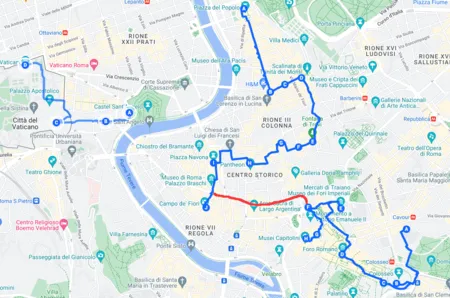
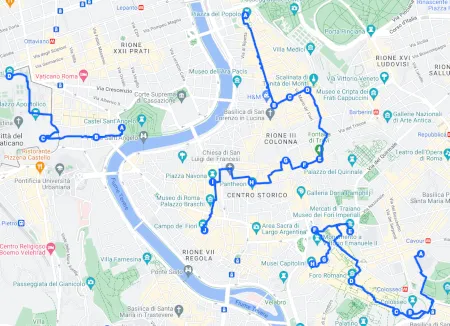
Add article 3 days in Rome

diff --git a/_posts/2024-12-08-cosa-vedere-roma-3-giorni.md b/_posts/2024-12-08-cosa-vedere-roma-3-giorni.md
@@ -1,0 +1,119 @@
+---
+layout: single
+title:  "Cose da Vedere a Roma in 3 Giorni"
+date:   2024-12-22
+permalink: /cosa-vedere-rome-3-giorni/
+categories: Week-End
+classes: wide
+author_profile: false
+excerpt: "Vivi Roma in 3 giorni: lasciati incantare dai simboli intramontabili come il Pantheon e i Musei Vaticani, ma scopri anche il fascino nascosto del Ghetto Ebraico e dell’Aventino, per un’esperienza tra meraviglie celebri e tesori meno noti."
+
+---
+
+{: .text-justify}
+Roma, con la sua storia millenaria e il suo patrimonio artistico senza pari, offre innumerevoli attrazioni. Anche con solo tre giorni a disposizione, è possibile scoprire molti dei luoghi più emblematici della città, bilanciando itinerari classici e percorsi alternativi per esplorare al meglio la capitale.
+
+## Gli itinerari di Scopri Roma: Classici e Alternativi
+
+{: .text-justify}
+Gli itinerari che ti propongo sono suddivisi in due categorie: **classici**, pensati per chi visita Roma per la prima volta e vuole ammirare le attrazioni più iconiche, e **alternativi**, ideali per chi ha già esplorato i luoghi principali o desidera scoprire angoli meno conosciuti della città. Con tre giorni a disposizione, puoi facilmente combinare entrambi gli approcci, alternando monumenti famosi a esperienze più particolari, per un viaggio davvero completo e vario.
+
+## Itinerari Classici
+
+![Itinerari Classici]({{ site.baseurl }}/assets/img/Itinerari-Classici.webp){: width="450px" height="298px"}
+
+{: .text-justify}
+Se è la tua prima volta a Roma o desideri ammirare i luoghi più iconici della capitale, gli itinerari classici sono la scelta perfetta. Ti condurranno attraverso monumenti famosi, piazze ricche di storia e scorci indimenticabili, offrendoti un’immersione completa nella bellezza e nel fascino senza tempo della città eterna.
+
+### 1. Roma Centro Storico
+
+![Scalinata Piazza di Spagna]({{ site.baseurl }}/assets/img/Scalinata-Piazza-di-Spagna.webp){: width="450px" height="270px"}
+
+{: .text-justify}
+Inizia il tuo percorso da **Piazza del Popolo**, una delle piazze più rappresentative della città, per poi passeggiare lungo la vivace **via del Corso** fino a raggiungere **via Condotti** e la suggestiva **Piazza di Spagna**. Prosegui ammirando la magnifica **Fontana di Trevi**, **Piazza Colonna**, il maestoso **Pantheon**, **Piazza Navona**, e concludi con una visita a **Campo de' Fiori**. Questo itinerario è un viaggio emozionante attraverso il cuore pulsante della storia e dell’arte di Roma.
+
+{: .text-justify}
+Consigliato per chi vuole esplorare alcune delle meraviglie più celebri della città: **un percorso imperdibile per vivere l’autenticità e il fascino del centro storico di Roma**.
+
+{: .text-center}
+[Vai all'Itinerario](https://www.scopriroma.it/roma-centro-storico/){: .btn .btn--info}
+
+### 2. Colosseo e Foro Romano
+
+![Colosseo]({{ site.baseurl }}/assets/img/Colosseo.webp){: width="450px" height="auto"}
+
+{: .text-justify}
+Il tuo percorso comincia dalla chiesa di **San Pietro in Vincoli**, famosa per ospitare il **Mosè di Michelangelo**, e continua con il maestoso **Colosseo** e l’**Arco di Costantino**. Dopo aver esplorato l’area del **Foro Romano**, puoi proseguire verso i **Mercati di Traiano** e arrivare a **Piazza Venezia**, dominata dal maestoso **Altare della Patria**. Termina la giornata con una visita alla storica piazza del **Campidoglio**, progettata da Michelangelo.
+
+{: .text-justify}
+Questo itinerario è perfetto **se desideri vivere l’emozione di visitare il Colosseo** e scoprire i tesori archeologici che testimoniano la grandiosità della Roma antica.
+
+{: .text-center}
+[Vai all'Itinerario](https://www.scopriroma.it/roma-colosseo-foro-romano/){: .btn .btn--info}
+
+### 3. Vaticano e Basilica di San Pietro
+
+![Basilica di San Pietro]({{ site.baseurl }}/assets/img/Basilica-di-San-Pietro.webp){: width="450px" height="auto"}
+
+{: .text-justify}
+Inizia la tua visita con il suggestivo **Castel Sant’Angelo**, per poi percorrere **Via della Conciliazione**, che offre una vista mozzafiato su **Piazza San Pietro**. Entra nella spettacolare **Basilica di San Pietro**, un capolavoro di architettura e spiritualità, e continua con una visita ai meravigliosi **Musei Vaticani**, dove potrai ammirare la celebre **Cappella Sistina**. Un viaggio che ti porterà nel cuore della cultura e della fede della città eterna.
+
+{: .text-justify}
+Questo itinerario è ideale per **chi non può rinunciare a visitare la Basilica di San Pietro** e vuole scoprire i capolavori artistici che rendono unico il Vaticano.
+
+{: .text-center}
+[Vai all'Itinerario](https://www.scopriroma.it/vaticano-basilica-san-pietro/){: .btn .btn--info}
+
+## Itinerari Alternativi
+
+![Itinerari Alternativi]({{ site.baseurl }}/assets/img/Itinerari-Alternativi.webp){: width="450px" height="457px"}
+
+{: .text-justify}
+Se hai già visto i monumenti più famosi di Roma o vuoi scoprire un lato meno conosciuto della città, gli itinerari alternativi sono ciò che fa per te. Questi percorsi ti condurranno in angoli autentici e quartieri ricchi di storia, lontano dai circuiti turistici, offrendo esperienze uniche per vivere Roma in modo diverso.
+
+### 4. Ghetto Ebraico e Trastevere: un viaggio nei quartieri più autentici e caratteristici di Roma, dove l’atmosfera si mescola con la storia.
+
+![Santa Cecilia in Trastevere]({{ site.baseurl }}/assets/img/Santa-Cecilia-Trastevere.webp){: width="450px" height="auto"}
+
+{: .text-justify}
+Parti dal **Circo Massimo** e raggiungi la celebre **Bocca della Verità**, per poi immergerti nell’atmosfera unica del **Ghetto Ebraico**, uno dei quartieri più ricchi di storia di Roma. Passeggia tra le stradine caratteristiche e visita la **Sinagoga** prima di raggiungere l’**Isola Tiberina**. Infine, esplora il pittoresco quartiere di **Trastevere**, noto per i suoi vicoli acciottolati, le piazze animate e il suo fascino senza tempo.
+
+{: .text-justify}
+Questo itinerario è perfetto per chi vuole scoprire **due dei quartieri più autentici e suggestivi di Roma**, lontano dalle solite mete turistiche.
+
+{: .text-center}
+[Vai all'Itinerario](https://www.scopriroma.it/trastevere-ghetto-ebraico/){: .btn .btn--info}
+
+### 5. Giro delle Basiliche: scopri le magnifiche basiliche romane, ciascuna con un’impronta storica e artistica unica.
+
+![Basilica di San Giovanni in Laterano]({{ site.baseurl }}/assets/img/Basilica-San-Giovanni.webp){: width="450px" height="auto"}
+
+{: .text-justify}
+Esplora alcune delle chiese più importanti e ricche di storia di Roma, iniziando dalla maestosa **Basilica di Santa Maria Maggiore**. Continua verso la **Basilica di San Giovanni in Laterano**, la più antica e imponente delle basiliche papali, e termina con la grandiosa **Basilica di San Paolo fuori le Mura**. Ogni tappa ti sorprenderà con la sua bellezza, i suoi tesori artistici e la sua profonda spiritualità.
+
+{: .text-justify}
+Questo itinerario è **ideale per chi vuole conoscere meglio le principali basiliche di Roma**, immergendosi in secoli di storia e arte religiosa.
+
+{: .text-center}
+[Vai all'Itinerario](https://www.scopriroma.it/giro-basiliche/){: .btn .btn--info}
+
+### 6. Villa Borghese e Bioparco: per una pausa immersa nel verde, tra arte, natura e fauna selvatica.
+
+![Villa Borghese - Tempio di Esculapio]({{ site.baseurl }}/assets/img/Villa-Borghese-Tempio-Esculapio.webp){: width="450px" height="auto"}
+
+{: .text-justify}
+Se cerchi un po’ di relax, questo itinerario ti porterà tra natura e arte. Passeggia tra i meravigliosi giardini di **Villa Borghese**, uno dei parchi più amati della città, e visita la prestigiosa **Galleria Borghese**, dove potrai ammirare opere di **Caravaggio** e **Bernini**. Termina la tua giornata con una visita al **Bioparco di Roma**, un luogo perfetto per scoprire numerose specie animali in un ambiente naturale.
+
+{: .text-justify}
+Questo percorso è perfetto per **chi vuole trascorrere una giornata lontano dal caos cittadino**, tra cultura e natura, in una delle oasi verdi più belle di Roma.
+
+{: .text-center}
+[Vai all'Itinerario](https://www.scopriroma.it/villa-borghese-bioparco/){: .btn .btn--info}
+
+## Conclusione
+
+{: .text-justify}
+Con tre giorni a disposizione, Roma ti offrirà un assaggio indimenticabile della sua storia, arte e cultura. Che tu scelga itinerari classici o alternativi, preparati a camminare, scoprire e lasciarti sorprendere dalla magia della città eterna. Pianifica bene il tuo viaggio, prendi il tuo tempo per ammirare ogni dettaglio e lasciati trasportare dall’atmosfera unica di Roma. Buona visita!
+
+{: .text-justify}
+Qualunque sia il tuo itinerario, che tu preferisca i percorsi classici, quelli alternativi o un mix di entrambi, Roma saprà regalarti emozioni uniche. Preparati a immergerti nella sua storia, a perderti tra le sue vie e a lasciarti affascinare dalla magia di una città che è un autentico museo a cielo aperto.

diff --git a/_posts/2024-12-08-cosa-vedere-roma-2-giorni.md b/_posts/2024-12-08-cosa-vedere-roma-2-giorni.md
@@ -6,7 +6,7 @@ permalink: /cosa-vedere-rome-2-giorni/
 categories: Week-End
 classes: wide
 author_profile: false
-excerpt: "Esplora Villa Borghese e il BioParco di Roma: passeggia tra giardini storici, ammira capolavori di Caravaggio e Tiziano, e scopri la fauna mondiale in un'avventura unica nel cuore della città."
+excerpt: "Scopri Roma in 2 giorni: ammira i grandi classici come il Colosseo e la Basilica di San Pietro, ma esplora anche lati inaspettati tra i vicoli di Trastevere e il quartiere Coppedè, per un viaggio tra storia, arte e autenticità."
 
 ---
 
@@ -23,12 +23,7 @@ Gli itinerari che ti propongo sono divisi in due categorie: **classici** e **alt
 ![Itinerari Classici]({{ site.baseurl }}/assets/img/Itinerari-Classici.webp){: width="450px" height="298px"}
 
 {: .text-justify}
-Se è la tua prima volta a Roma o desideri vedere i luoghi più iconici, gli itinerari classici ti guideranno attraverso i monumenti e le piazze più celebri della città.
-
-{: .text-justify}
-La figura mostra i 3 itinerari sulla cartina, notate la linea rossa che congiunge i primi due itinerari. Più avanti vedremo che
-per le persone più allenate sarà possibile congiungere i due itinerari così da poter condensare in 1 giorno due diversi itinerari così da poter
-percorrere, in soli due giorni, tutti gli itinerari classici.
+Se è la tua prima volta a Roma o desideri vedere i luoghi più iconici, gli itinerari classici ti guideranno attraverso i monumenti e le piazze più celebri della città. Dal Colosseo a Piazza Navona, passando per la Fontana di Trevi e il Pantheon, questi percorsi ti offriranno un viaggio nel cuore della storia e della bellezza romana.
 
 ### 1. Roma Centro Storico
 
@@ -115,21 +110,10 @@ Scegli questo itinerario se conosci già tutti gli itinerari classici, le basili
 {: .text-center}
 [Vai all'Itinerario](https://www.scopriroma.it/villa-borghese-bioparco/){: .btn .btn--info}
 
-## Per i Veri Camminatori: Combinare Itinerari Classici
-
-{: .text-justify}
-Se sei un appassionato camminatore e desideri vedere il massimo in due giorni, puoi combinare l’Itinerario del **Centro Storico** con quello del **Colosseo e Foro Romano**.
-
-{: .text-justify}
-Unendo i due itinerari, puoi iniziare dal Centro Storico, percorrendo il classico giro che tocca Piazza del Popolo, Fontana di Trevi e Campo de’ Fiori, per poi dirigerti verso Largo di Torre Argentina. Da lì, puoi intraprendere il secondo itinerario al contrario, passando da Piazza Venezia e Campidoglio fino a Colosseo. Per risparmiare qualche chilometro, puoi decidere, ad esempio, di fermarti al Colosseo e non proseguire verso San Pietro in Vincoli.
-
-{: .text-justify}
-**Attenzione però:** si tratta di un percorso di oltre 8 km e circa due ore senza sosta. Con le fermate per ammirare le attrazioni, fare foto e goderti la città, il tempo totale si allunga notevolmente, e la fatica si fa sentire. Pertanto, se non sei abituato a camminare per lunghe distanze, è consigliabile o evitare di combinare i due itinerari o fare delle soste più lunghe per ricaricare le energie.
-
 ## Conclusione
 
 {: .text-justify}
 Roma è una città che non smette mai di sorprendere, e con soli due giorni a disposizione puoi comunque vivere un’esperienza unica, esplorando alcuni dei suoi luoghi più iconici o scoprendo angoli meno noti ma altrettanto affascinanti. Se è la tua prima volta nella capitale o se hai poco tempo, gli itinerari classici ti offrono una panoramica completa dei suoi monumenti più celebri. Se invece hai già avuto modo di visitare i luoghi più famosi, gli itinerari alternativi ti permetteranno di esplorare Roma in modo diverso, immergendoti nella sua cultura e nella sua storia sotto una nuova luce.
 
 {: .text-justify}
-Che tu scelga gli itinerari classici, alternativi o una combinazione dei due, Roma ti regalerà esperienze indimenticabili. Preparati a camminare, a perderti nelle sue strade e a scoprire, passo dopo passo, la magia di una città che è un vero museo a cielo aperto.
+Che tu scelga gli itinerari classici o alternativi o una combinazione dei due, Roma ti regalerà esperienze indimenticabili. Preparati a camminare, a perderti nelle sue strade e a scoprire, passo dopo passo, la magia di una città che è un vero museo a cielo aperto.

diff --git a/_posts/2024-10-26-roma-centro-storico.md b/_posts/2024-10-26-roma-centro-storico.md
@@ -85,10 +85,11 @@ Situato nei sotterranei della basilica, il museo offre una ricostruzione delle m
 ![Terrazzo del Pincio]({{ site.baseurl }}/assets/img/Terrazzo-del-Pincio.webp){: width="450px" height="296px"}
 
 {: .text-justify}
-Proseguendo a sinistra dal Museo Leonardo da Vinci, troverai una scalinata che porta al **Terrazzo del Pincio**, situato in cima al colle Pincio, dentro Villa Borghese. Da questa terrazza panoramica si gode una vista spettacolare su Piazza del Popolo e su tutta Roma.
+Proseguendo a sinistra dal Museo Leonardo da Vinci, troverai una scalinata che porta al **Terrazzo del Pincio**, situato in cima al colle Pincio, dentro Villa Borghese. Salita la scala troverai a sinistra una piccola salita di pochi metri chiamata "Salita del Pincio", percorri questa salita e ti troverai sulla terrazza.
+Da qui si gode una vista spettacolare su Piazza del Popolo e su tutta Roma.
 
 {: .text-justify}
-Arrivato in cima, potrai ammirare la cupola di San Pietro e Castel Sant’Angelo. È il luogo perfetto per foto al tramonto o per una passeggiata romantica, apprezzando la bellezza di Roma, anche di sera. Progettato da Giuseppe Valadier nel 1826, il terrazzo è un angolo magico della città.
+Potrai ammirare la cupola di San Pietro e Castel Sant’Angelo. È il luogo perfetto per foto al tramonto o per una passeggiata romantica, apprezzando la bellezza di Roma, anche di sera.
 
 ### Fontana della Dea Roma: Simbolo della Grandezza Romana
 
@@ -103,6 +104,9 @@ Sotto il Terrazzo del Pincio, nell'emiciclo orientale di Piazza del Popolo, si t
 
 {: .text-justify}
 Di fronte alla Fontana della Dea Roma si trova la **Fontana del Nettuno**, anch'essa progettata da Giuseppe Valadier e scolpita da Giovanni Ceccarini tra il 1814 e il 1823. La fontana è caratterizzata da una statua centrale di Nettuno con tridente, affiancato da due tritoni con delfini. L’acqua fluisce da una tazza sopra una grande vasca semicircolare in travertino. Il complesso è stato restaurato nel 1997-1998.
+
+{: .text-justify}
+**Curiosità**: sapevi che il muro semicircolare della 𝐅𝐨𝐧𝐭𝐚𝐧𝐚 𝐝𝐢 𝐍𝐞𝐭𝐭𝐮𝐧𝐨 a 𝐏𝐢𝐚𝐳𝐳𝐚 𝐝𝐞𝐥 𝐏𝐨𝐩𝐨𝐥𝐨 nasconde un sorprendente effetto acustico? Posizionati a un’estremità del muro, mentre un amico si mette al centro: parlate rivolti verso il muro e scoprirete che le vostre voci viaggeranno come un sussurro a pochi centimetri di distanza.
 
 ### Obelisco Flaminio: Il Cuore Egiziano di Piazza del Popolo
 
